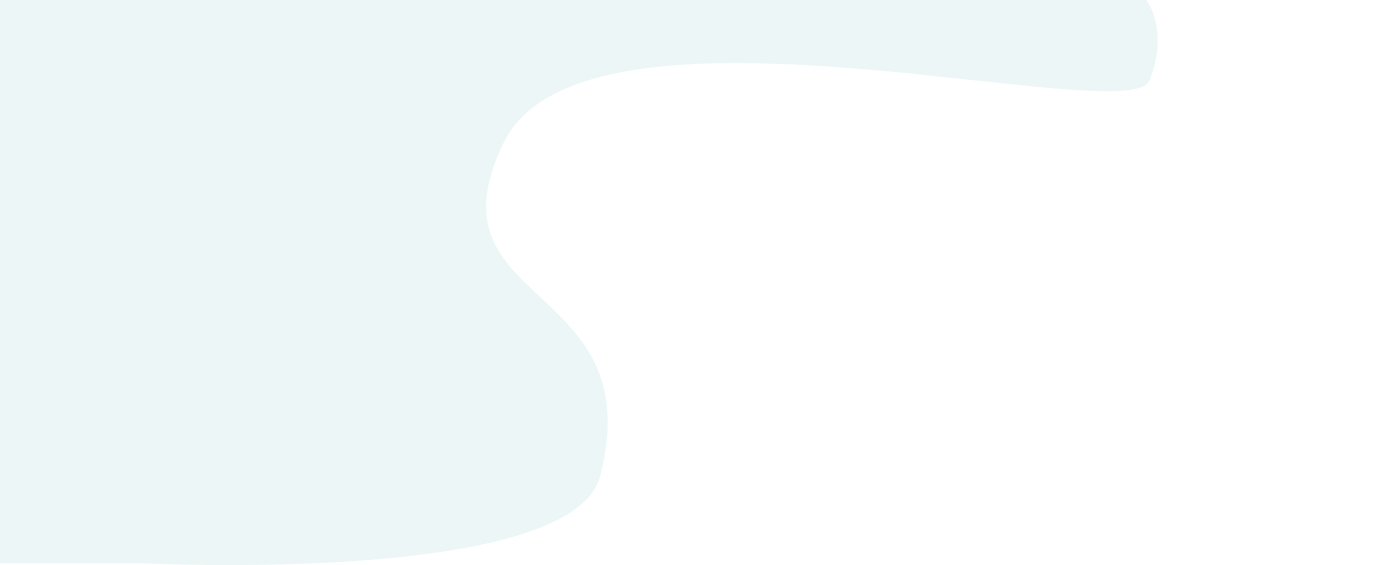
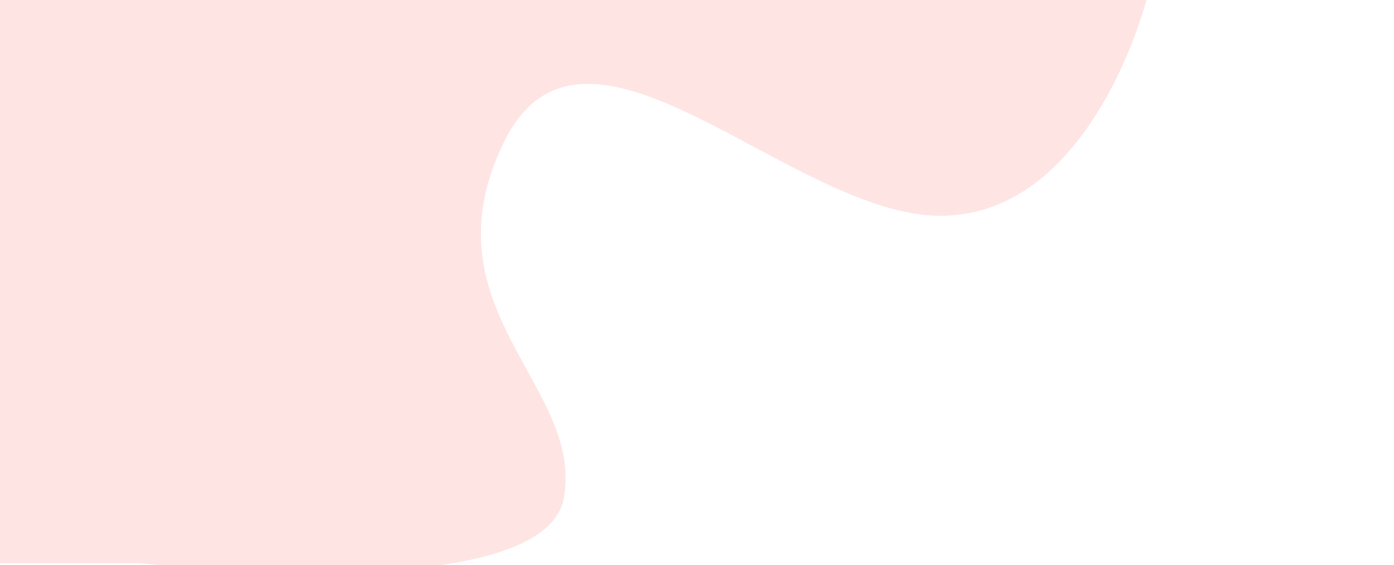
changing backgrounds

Changed region(s): [[0.401, 0.0903, 0.802, 0.3912], [0.2159, 0.9327, 0.401, 1.0]]

diff --git a/_includes/sections/about-section.html b/_includes/sections/about-section.html
@@ -17,8 +17,6 @@ The data will be held securely and anonymously, and access will be restricted to
 
 The joined-up nature of health care data in the UK National Health Service (NHS) makes the UK one of the very few places in the world were this can be done in big enough numbers to make new discoveries possible. It offers the opportunity for scientists to make new discoveries to help treat COVID-19 patients and to improve the pandemic response.  
 
-For the long term - being able to analysis different types of pandemic health care data rapidly in a single location will enable the UK to be better prepared for future pandemics and to routinely conduct infectious disease research (e.g. flu, sepsis and antibiotic resistant bacteria (aka ‘Superbugs’).
-
                         </p>
                         <div class="ab-mark-text">
                             <ul>

diff --git a/scope.md b/scope.md
@@ -9,16 +9,14 @@ permalink: /scope
 The purpose of the ODAP is to facilitate biomedical research to advance understanding of disease caused by emerging or re-emerging pathogens (new infectious agents, and new, re-emerging or therapy-resistant forms of existing infectious agents) or other exposures (new or unexplained poisoning, or exposure to harmful energy sources such as electromagnetic radiation) of public health interest. Research within the ODAP is strictly limited to this purpose.
 
 ### The Platform
-Our UKRI-supported [platform](/platform/) based at the University of Edinburgh is a trusted research environment (TRE) running on a high-performance computing space that holds data securely allowing academic and public health researchers access following a ‘five safes’ (http://www.fivesafes.org) research application and governance process.  
+Our UKRI-supported platform based at the University of Edinburgh is a trusted research environment (TRE) running on a high-performance computing space that holds data securely allowing academic and public health researchers access following a ‘five safes’ (http://www.fivesafes.org) research application and governance process.  
 
 Once granted access for a defined research project researchers can then make use of multiple datasets in the ODAP, handling sensitive data in the trusted research environment where it can be analysed along with non-sensitive data such as human and viral genomes. 
-
-Further information is available on our [platform](/platform/) page. 
 
 ### During COVID-19
 During the COVID-19 pandemic, the UK has generated several globally unique research data assets that have enabled critical discoveries which have shaped the COVID-19 response in the UK and globally. Examples of these data assets include sequencing of the SARS-CoV-2 virus itself, sequencing of the DNA of patients with severe COVID-19 in intensive care, and the systematic capture of detailed clinical record information. While each of these data sets alone have generated transformational knowledge - conducting joint analysis of multiple data sets has the potential to yield further significant discoveries.  
 
-The ODAP holds unique aggregation of UK sovereign data assets, including the complete data resources of the ISARIC4C/CO-CIN (clinical characterisation of COVID-19 patients), GenOMICC (host genetics of severe COVID-19 patients), PHOSP (follow up of COVID-19 patients), HEAL COVID (trial), and UK-CIC (immunology of COVID-19 patients) studies, together with COG-UK (SARS-CoV-2 viral sequence from ~15% of all cases) data from England and Scotland, and linkage to the RECOVERY trial, NHS clinical records, national vaccination records, critical care audit data (SICSAG) and mortality records. Linkage to ICNARC CMP has already been agreed. 
+The ODAP holds unique aggregation of UK sovereign data assets, including the complete data resources of the ISARIC4C/CO-CIN (clinical characterisation of COVID-19 patients), GenOMICC (host genetics of severe COVID-19 patients), PHOSP (follow up of COVID-19 patients), HEAL COVID (trial), and UK-CIC (immunology of COVID-19 patients) studies, together with COG-UK (SARS-CoV-2 viral sequence from \~15% of all cases) data from England and Scotland, and linkage to the RECOVERY trial, NHS clinical records, national vaccination records, critical care audit data (SICSAG) and mortality records. Linkage to ICNARC CMP has already been agreed. 
 
 The ODAP partnership aims to facilitate vital research on the impact of SARS-CoV-2 genetic and phenotypic variation on disease severity and vaccine efficacy by creating additional data linkages, automating data flows and analyses, and democratising access to research datasets with full agreement from the contributing studies. ODAP partnership is an overarching grouping of UK data generators and provides oversight, strategic guidance and governance to the ODAP platform. 
 

diff --git a/assets/img/command-notes.md b/assets/img/command-notes.md
@@ -10,7 +10,7 @@ inkscape --export-type png logo.svg -o logo.png
 
 inkscape --export-type png i4c-map-bare.svg -o i4c-map-bare.png
 gm identify i4c-map-bare.png
-gm convert -background white -gravity center -extent 3300x2550+0+0 i4c-map-bare.png i4c-map-bare.png
+gm convert -background transparent -gravity center -extent 3300x2550+0+0 i4c-map-bare.png i4c-map-bare.png
 
 
 inkscape --export-type png odap.svg -o odap.png
